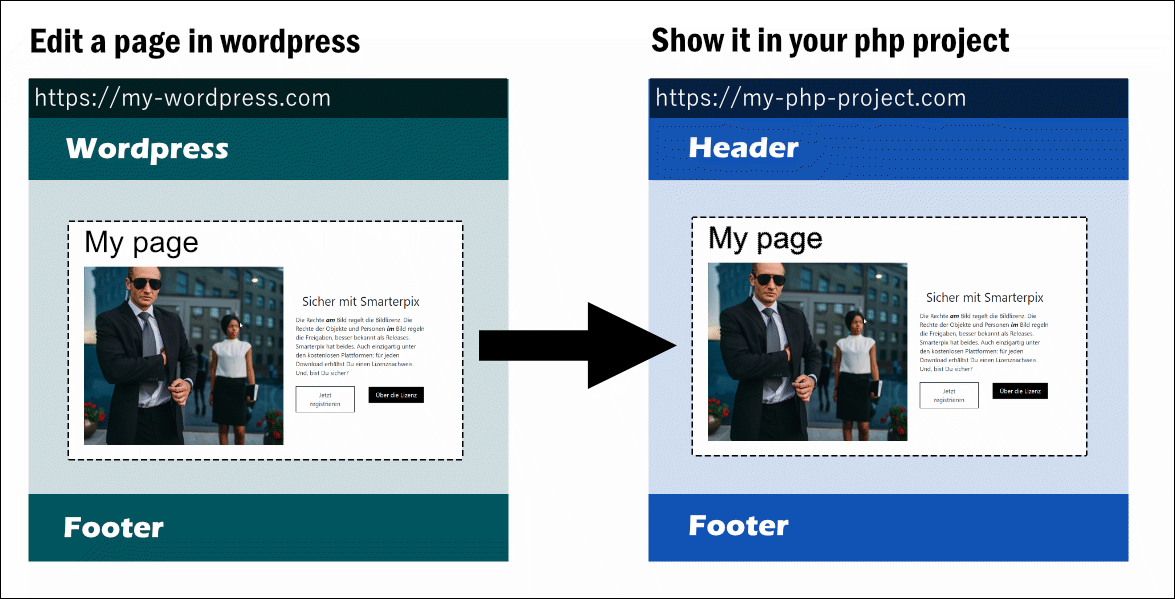
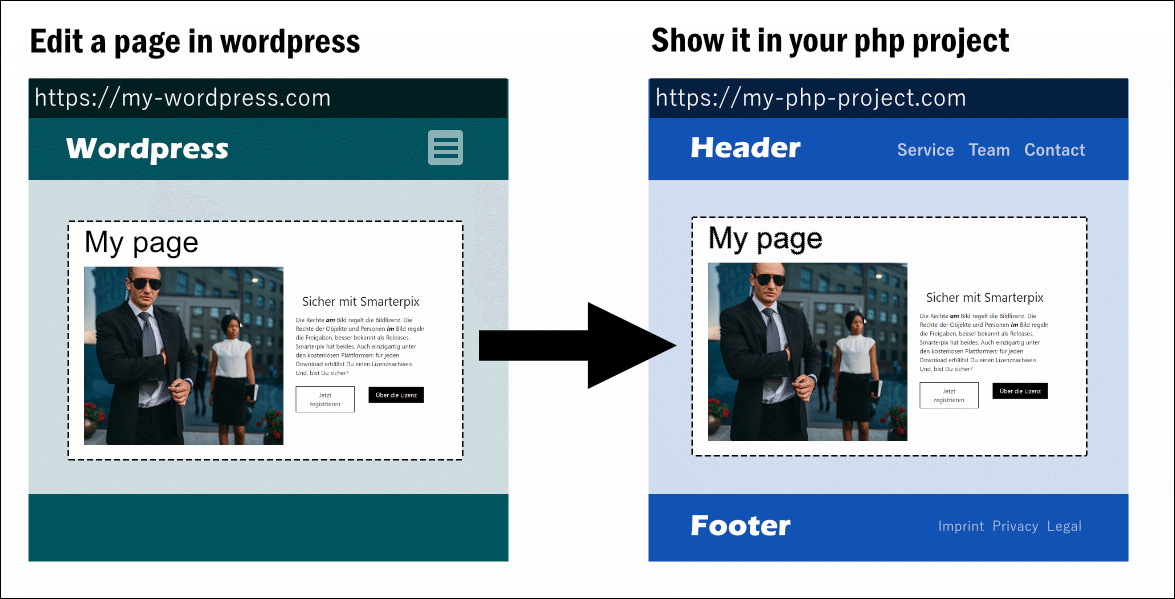
readme update

diff --git a/README.md b/README.md
@@ -36,26 +36,31 @@ $config = (new Config())
     ->setCssFolderPublicUrl('/css')
 ;
 
- $page = (new Client($config))->getPage('my-first-page');  
+$page = (new Client($config))->getPage('my-first-page');  
 ?>
 
 <html>
- <head>
+  <head>
     <!-- 
-       Here is your existing html-head, which probably already has some head-tags in it. 
+      Your existing html-head, which probably already has some head-tags in it. For example:
+      <meta charset="UTF-8">
+      <meta name="viewport" content="width=device-width, initial-scale=1, shrink-to-fit=no">
     -->
     
     <? echo $page->getHtmlHead() ?>
- </head>
+  </head>
  
- <body>
-  <!-- 
-     This is your existing html-body. There is probably a header and footer and more. 
-  -->
+  <body>
+    <header>
+      <!-- Your existing header and navigation -->
+    </header>
   
-  <?php echo $page->getHtmlBody() ?>
+    <?php echo $page->getHtmlBody() ?>
 
- </body>
+    <footer>
+      <!-- Your existing footer -->
+    </footer>
+  </body>
 </html>
 ```
 
